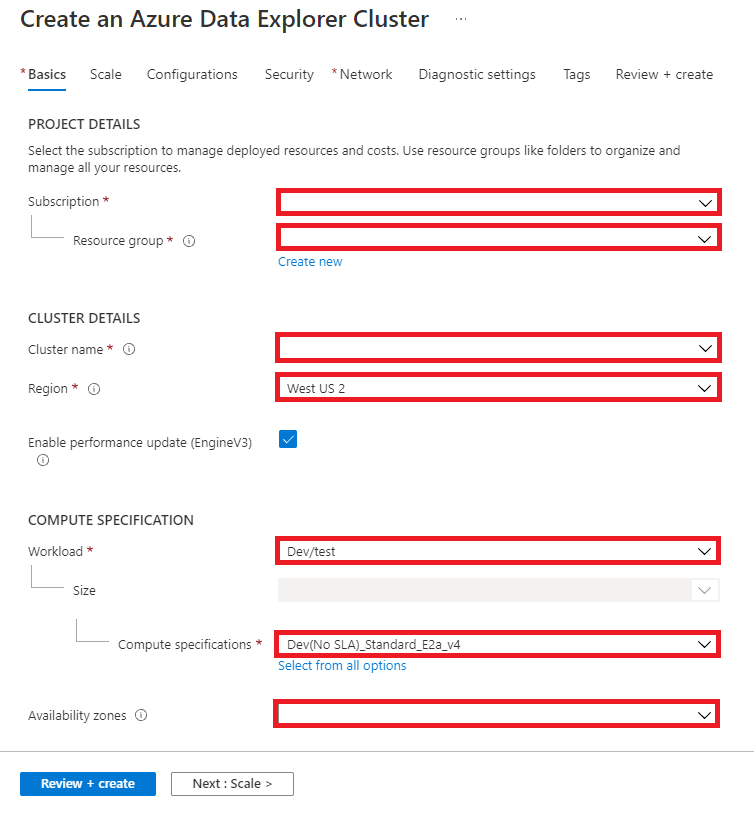
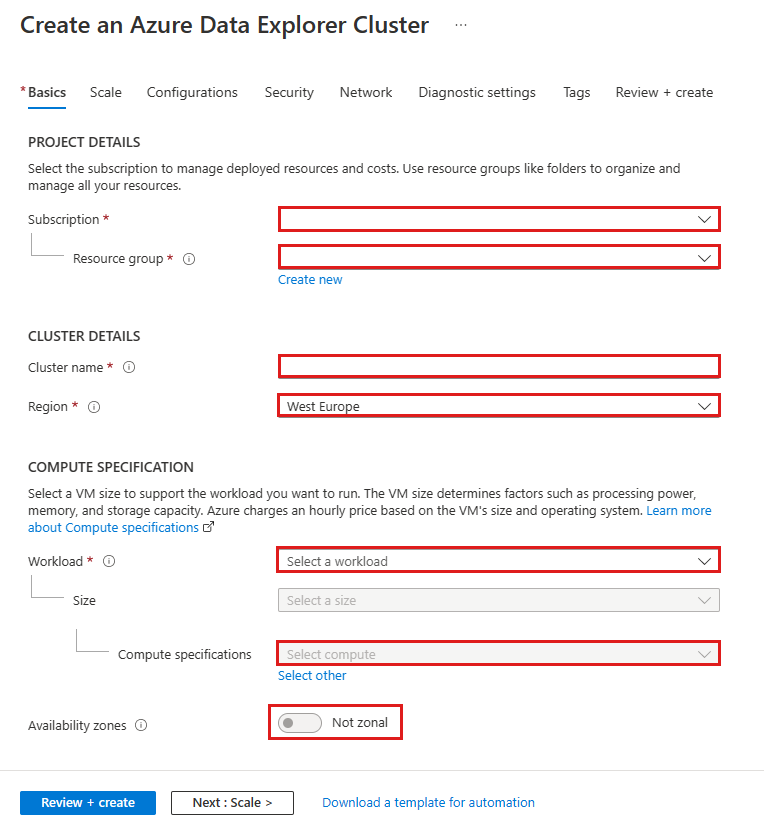
update image and descript for availability zones

diff --git a/data-explorer/create-cluster-database-portal.md b/data-explorer/create-cluster-database-portal.md
@@ -50,7 +50,7 @@ Create an Azure Data Explorer cluster with a defined set of compute and storage 
 
 1. Fill out the basic cluster details with the following information.
 
-    :::image type="content" source="media/create-cluster-database-portal/create-cluster-form.png" alt-text="Screenshot of the cluster form.":::
+    :::image type="content" source="media/create-cluster-database-portal/create-cluster-form.png" alt-text="Screenshot of the Azure portal create Azure Data Explorer cluster form.":::
 
     **Setting** | **Suggested value** | **Field description**
     |---|---|---|
@@ -60,7 +60,7 @@ Create an Azure Data Explorer cluster with a defined set of compute and storage 
     | Region | *West US* or *West US 2* | Select *West US* or *West US 2* (if using availability zones) for this quickstart. For a production system, select the region that best meets your needs.
     | Workload | *Dev/Test* | Select *Dev/Test* for this quickstart. For a production system, select the specification that best meets your needs.
     | Compute specifications | *Dev(No SLA)_Standard_E2a_v4* | Select *Dev(No SLA)_Standard_E2a_v4* for this quickstart. For a production system, select the specification that best meets your needs.
-    | Availability zones | *1*, *2*, or *3* | Place the cluster instances in one or more availability zones in the same region (optional). [Azure Availability Zones](/azure/availability-zones/az-overview) are unique physical locations within the same Azure region. They protect an Azure Data Explorer cluster from loss data. The cluster nodes are created, by default, in the same data center. When you select several availability zones you can eliminate a single point of failure and ensure high availability. **Deployment to availability zones is possible only when creating the cluster, and can't be modified later.**
+    | Availability zones | On | Turning on this feature will distribute the cluster across multiple physical locations within a region for added protection. By default, this feature is enabled if zones are supported in the region. If less than 3 zones are available, the portal will display the number of supported zones. Note that deployment to availability zones is possible only when creating the cluster, and can't be modified later. Read more about [Azure Availability Zones](/azure/availability-zones/az-overview).
     | | | |
 
 1. Select **Review + create** to review your cluster details, and on the next screen select **Create** to provision the cluster. Provisioning typically takes about 10 minutes.
